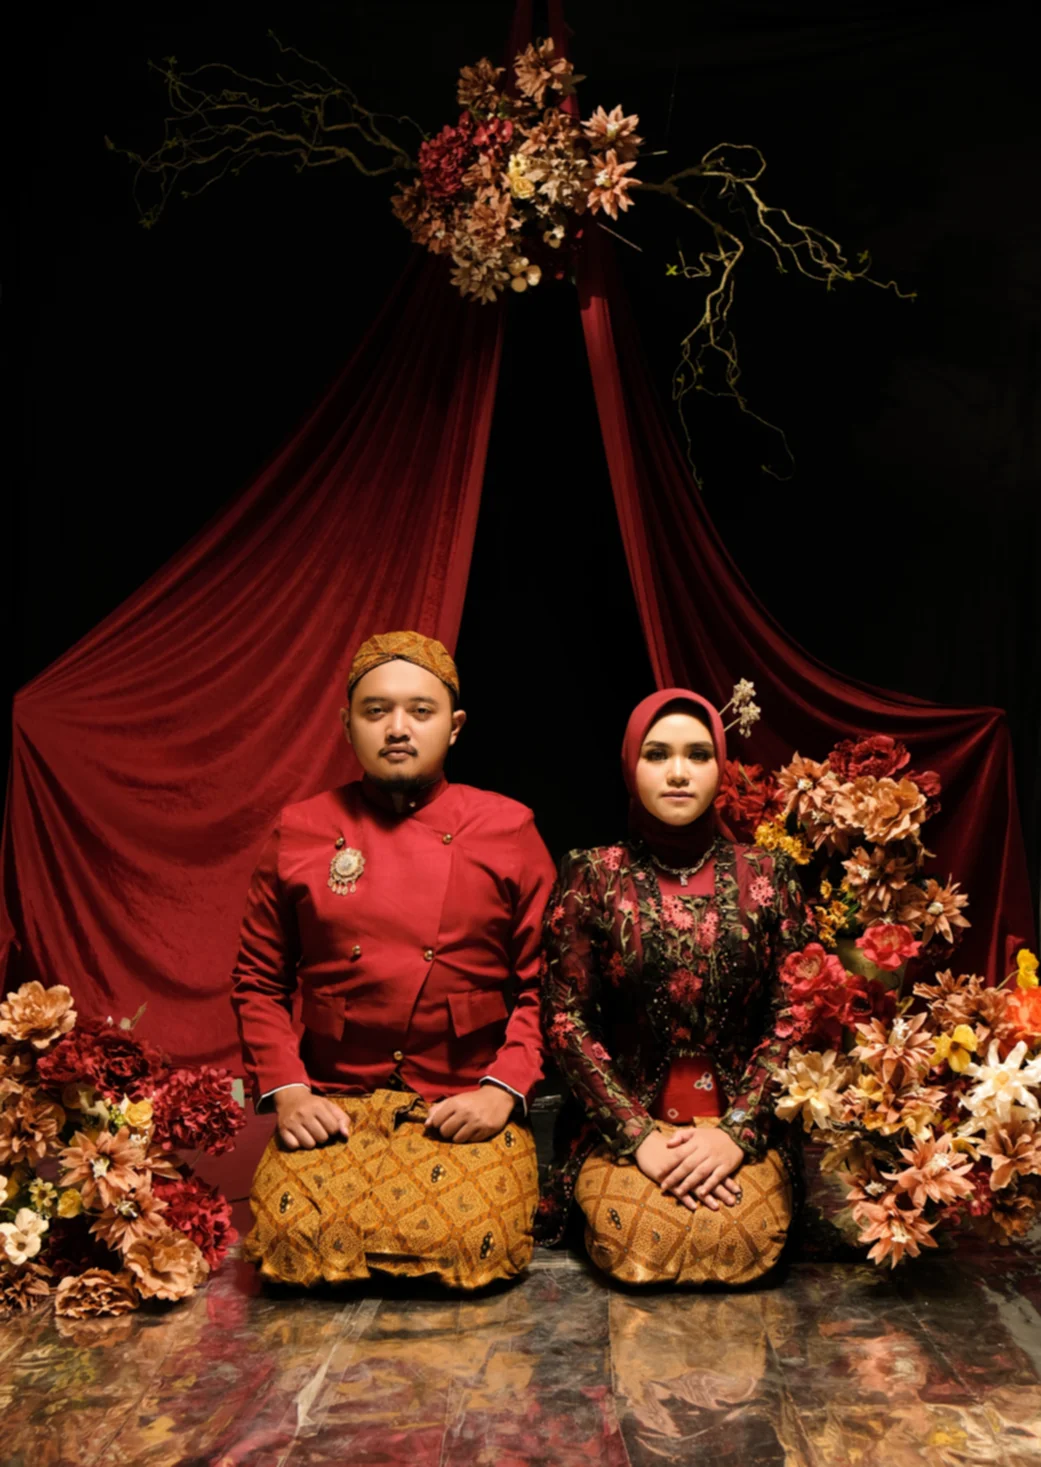
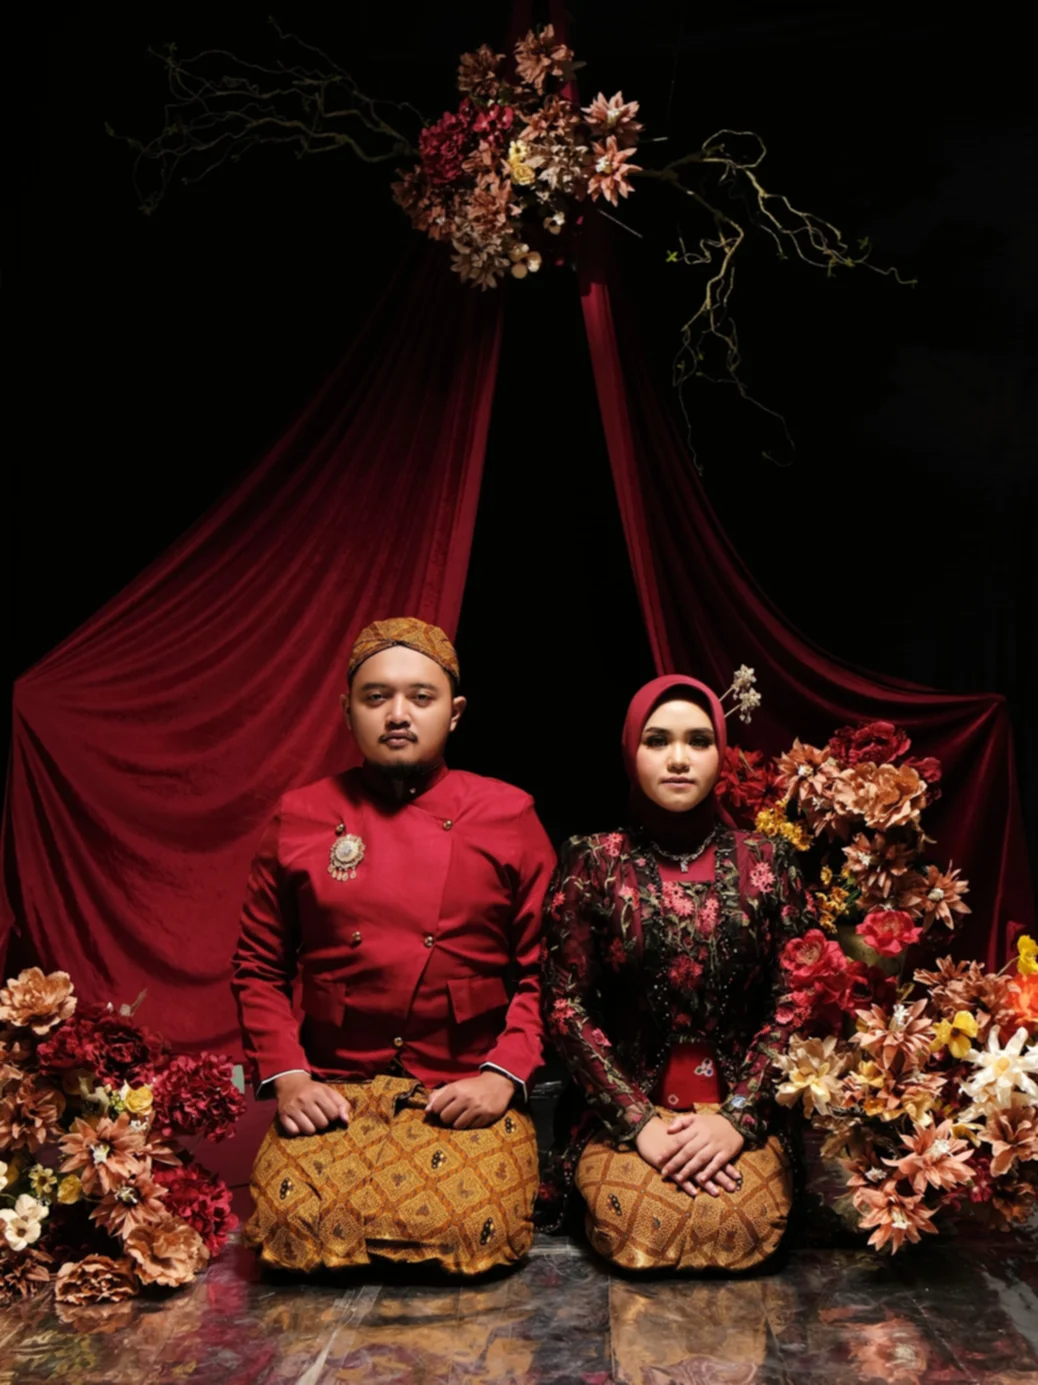
update photo 2

diff --git a/src/components/gallery.tsx b/src/components/gallery.tsx
@@ -14,7 +14,7 @@ const Gallery = () => {
       "DSCF6889.webp",
       "DSCF6971.webp",
       "DSCF6860.webp",
-      "DSCF6937.webp",
+      "MEITU_20250310_131118440.webp",
     ];
 
     // Load images with metadata
@@ -122,7 +122,7 @@ const Gallery = () => {
   const rightColumnImages = images.filter((_, i) => i % 2 === 1);
 
   return (
-    <div className="max-w-6xl mx-auto px-4 py-8">
+    <div id="gallery" className="max-w-md mx-auto px-4 py-8">
       {/* Header with search and navigation */}
       <motion.div
         className="mb-8"
@@ -228,68 +228,6 @@ const ImageCard = ({ image, onClick, animationDelay }: any) => {
           }}
         />
       )}
-
-      {/* Overlay that appears on hover with enhanced animations */}
-      <div className="absolute inset-0 bg-opacity-0 group-hover:bg-opacity-30 transition-all duration-300">
-        <motion.div
-          className="absolute bottom-0 left-0 right-0 p-4"
-          initial={{ y: "100%" }}
-          whileHover={{ y: 0 }}
-          transition={{ duration: 0.4, ease: [0.22, 1, 0.36, 1] }}
-        >
-          <div className="flex justify-between items-center">
-            <motion.div
-              className="flex space-x-2"
-              initial={{ y: 20, opacity: 0 }}
-              whileHover={{ y: 0, opacity: 1 }}
-              transition={{ duration: 0.3, delay: 0.1 }}
-            >
-              <motion.button
-                className="p-2 bg-white bg-opacity-90 rounded-md hover:bg-opacity-100"
-                whileHover={{ scale: 1.1 }}
-                whileTap={{ scale: 0.95 }}
-              >
-                <svg
-                  xmlns="http://www.w3.org/2000/svg"
-                  width="16"
-                  height="16"
-                  viewBox="0 0 24 24"
-                  fill="none"
-                  stroke="currentColor"
-                  strokeWidth="2"
-                  strokeLinecap="round"
-                  strokeLinejoin="round"
-                  className="hover:text-red-500 transition-colors"
-                >
-                  <path d="M20.84 4.61a5.5 5.5 0 0 0-7.78 0L12 5.67l-1.06-1.06a5.5 5.5 0 0 0-7.78 7.78l1.06 1.06L12 21.23l7.78-7.78 1.06-1.06a5.5 5.5 0 0 0 0-7.78z"></path>
-                </svg>
-              </motion.button>
-              <motion.button
-                className="p-2 bg-white bg-opacity-90 rounded-md hover:bg-opacity-100"
-                whileHover={{ scale: 1.1 }}
-                whileTap={{ scale: 0.95 }}
-              >
-                <svg
-                  xmlns="http://www.w3.org/2000/svg"
-                  width="16"
-                  height="16"
-                  viewBox="0 0 24 24"
-                  fill="none"
-                  stroke="currentColor"
-                  strokeWidth="2"
-                  strokeLinecap="round"
-                  strokeLinejoin="round"
-                  className="hover:text-blue-500 transition-colors"
-                >
-                  <path d="M21 15v4a2 2 0 0 1-2 2H5a2 2 0 0 1-2-2v-4"></path>
-                  <polyline points="7 10 12 15 17 10"></polyline>
-                  <line x1="12" y1="15" x2="12" y2="3"></line>
-                </svg>
-              </motion.button>
-            </motion.div>
-          </div>
-        </motion.div>
-      </div>
     </motion.div>
   );
 };

diff --git a/src/components/gift.tsx b/src/components/gift.tsx
@@ -9,7 +9,10 @@ const Gift = () => {
   };
 
   return (
-    <section className="flex flex-col items-center w-full bg-black/70 px-8 py-8 gap-4">
+    <section
+      id="gift"
+      className="flex flex-col items-center w-dvw bg-black/70 px-8 py-8 gap-4"
+    >
       <motion.div
         className="flex flex-col sm:flex-row justify-between items-center"
         initial={{ opacity: 0, y: -20 }}
@@ -34,8 +37,8 @@ const Gift = () => {
 
       <motion.div
         className="w-full"
-        initial={{ opacity: 0, x: -100 }}
-        whileInView={{ opacity: 1, x: 0 }}
+        initial={{ opacity: 0, y: 50 }}
+        whileInView={{ opacity: 1, y: 0 }}
         viewport={{ once: true, amount: 0.3 }}
         transition={{
           type: "spring",
@@ -53,8 +56,8 @@ const Gift = () => {
 
       <motion.div
         className="w-full"
-        initial={{ opacity: 0, x: 100 }}
-        whileInView={{ opacity: 1, x: 0 }}
+        initial={{ opacity: 0, y: 100 }}
+        whileInView={{ opacity: 1, y: 0 }}
         viewport={{ once: true, amount: 0.3 }}
         transition={{
           type: "spring",
@@ -79,7 +82,7 @@ const Gift = () => {
         transition={{
           type: "spring",
           stiffness: 200,
-          delay: 0.8,
+          delay: 0.5,
         }}
         whileHover={{ scale: 1.05 }}
         whileTap={{ scale: 0.95 }}

diff --git a/src/components/cover.tsx b/src/components/cover.tsx
@@ -16,7 +16,7 @@ const Cover = ({ open, onClose }: IProps) => {
       {open && (
         <motion.section
           id="home"
-          className="h-screen flex flex-col justify-end items-center fixed top-0 left-0 w-full z-10"
+          className="h-screen flex flex-col justify-end items-center fixed top-0 left-0 w-dvw z-10"
           exit={{
             opacity: 0,
             scale: 1.4,
@@ -30,7 +30,7 @@ const Cover = ({ open, onClose }: IProps) => {
             <span className="ml-10">Andika</span>
           </div>
           <div className="flex flex-col items-center mb-32">
-            <span>Kepada yth.</span>
+            <span>Kepada Yth.</span>
             <span className=" text-white text-xl">{name}</span>
             <button className="mt-8 flex items-center gap-2" onClick={onClose}>
               <MailOpen size={16} strokeWidth={1.7} />

diff --git a/src/components/opening.tsx b/src/components/opening.tsx
@@ -7,7 +7,10 @@ interface IProps {
 
 const Opening = ({ open }: IProps) => {
   return (
-    <section className="flex flex-col h-screen items-center justify-end w-full">
+    <section
+      id="opening"
+      className="flex flex-col h-screen items-center justify-end w-full"
+    >
       <div className="flex-1">
         <div className="flex flex-col items-center tangerine-regular text-[45px]/6 mt-16 mb-4 relative w-[150px] h-[150px]">
           <span className="absolute top-[50px] left-[20px]">A</span>

diff --git a/src/components/arrum.tsx b/src/components/arrum.tsx
@@ -60,7 +60,10 @@ END:VCALENDAR`;
   };
 
   return (
-    <section className="flex flex-col items-center w-full bg-black/70 px-8 gap-4 pb-4">
+    <section
+      id="arrum"
+      className="flex flex-col items-center w-full bg-black/70 px-8 gap-4 pb-4"
+    >
       <img src={bismillah} className="w-3/5 mt-10" alt="Bismillah" />
       <p className="text-justify text-white/85">
         Dan di antara tanda-tanda (kebesaran)-Nya ialah Dia menciptakan

diff --git a/src/components/bride.tsx b/src/components/bride.tsx
@@ -3,7 +3,10 @@ import OrnamentalDivider from "./divider";
 
 const Bride = () => {
   return (
-    <section className="flex flex-col items-center w-full bg-black/70 px-8 gap-4">
+    <section
+      id="bride"
+      className="flex flex-col items-center w-full bg-black/70 px-8 gap-4"
+    >
       <OrnamentalDivider symbol="flower" />
 
       <motion.div

diff --git a/src/components/date.tsx b/src/components/date.tsx
@@ -9,7 +9,10 @@ const TheDate = () => {
   };
 
   return (
-    <section className="flex flex-col items-center w-full bg-black/70 px-8 gap-4 pt-2 pb-8">
+    <section
+      id="date"
+      className="flex flex-col items-center w-full bg-black/70 px-8 gap-4 pt-2 pb-8"
+    >
       <OrnamentalDivider symbol="star" />
 
       <motion.div

diff --git a/src/components/ending.tsx b/src/components/ending.tsx
@@ -61,7 +61,7 @@ const Ending = () => {
 
       <motion.img
         src="/gallery/salam.webp"
-        className="absolute bottom-[-70px] left-0 salam"
+        className="absolute bottom-0 left-0 salam"
         initial={{ y: 10, opacity: 0 }}
         whileInView={{ y: 0, opacity: 1 }}
         viewport={{ once: true }}
